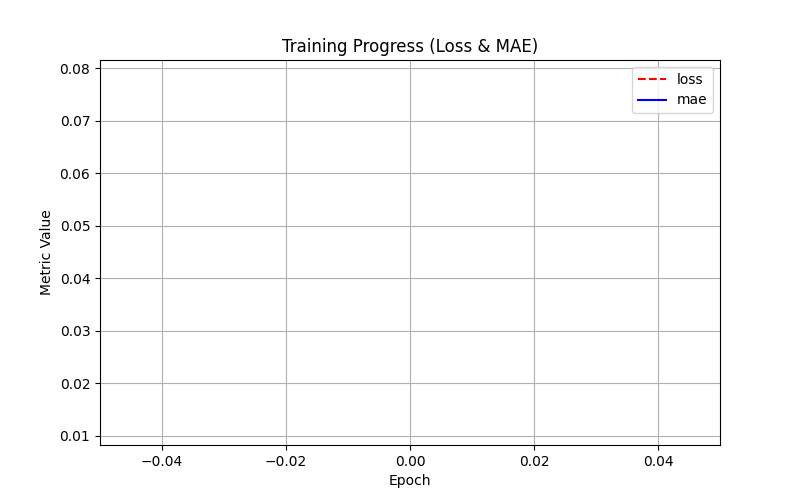
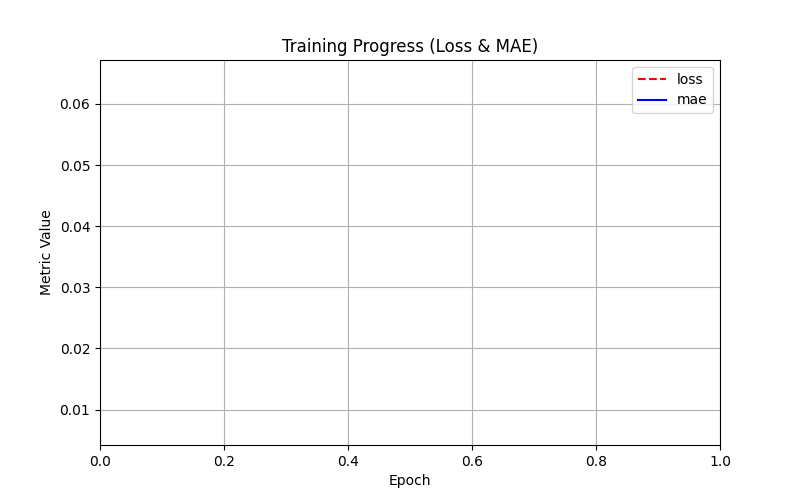
model history

diff --git a/25-Spring/CS4320 Machine Learning/audio-decompress/audio_decompress.py b/25-Spring/CS4320 Machine Learning/audio-decompress/audio_decompress.py
@@ -2,14 +2,13 @@
 
 import os
 os.environ["TF_GPU_ALLOCATOR"] = "cuda_malloc_async"
-os.environ["TF_CPP_MIN_LOG_LEVEL"] = "2" # quiet down some unimportant info
+os.environ["TF_CPP_MIN_LOG_LEVEL"] = "2"  # suppress unimportant info
 
 from open_data import get_streaming_dataset
 from model_creation import create_model
 import tensorflow as tf
 import keras
 import joblib
-
 from model_history import plot_history
 
 
@@ -21,17 +20,27 @@ if gpus:
 print("Num GPUs Available:", len(gpus))
 print("Using GPU:", bool(gpus))
 
+
 class Args:
     model_name = "a"
 
 
-# Load training dataset
-train_ds = get_streaming_dataset("data/train/cut/degraded", "data/train/cut/clean", batch_size=1)
-
-# Limit dataset per run (uncomment to allow chunking)
+# Set how many samples to use per run
 samples_per_run = 20
-run_index = 0
+
+# Load run index (auto-increments each run)
+run_index_path = "run_index.txt"
+if os.path.exists(run_index_path):
+    with open(run_index_path, "r") as f:
+        run_index = int(f.read().strip())
+else:
+    run_index = 0
+
+
+# Load dataset and apply chunking
+train_ds = get_streaming_dataset("data/train/cut/degraded", "data/train/cut/clean", batch_size=1)
 train_ds = train_ds.skip(run_index * samples_per_run).take(samples_per_run)
+
 
 # Inspect a batch to infer input shape
 for X_batch, y_batch in train_ds.take(1):
@@ -70,6 +79,7 @@ checkpoint_cb = keras.callbacks.ModelCheckpoint(
 # Set how many epochs to run this session
 epochs_this_run = 1
 
+
 # Train
 history = model.fit(
     train_ds,
@@ -78,11 +88,19 @@ history = model.fit(
     callbacks=[checkpoint_cb]
 )
 
-# Update progress
+
+# Update epoch progress
 with open(progress_path, "w") as f:
     f.write(str(loaded_epoch + epochs_this_run))
 
-print(f"Model saved and progress updated to epoch {loaded_epoch + epochs_this_run}")
+# Update run index
+with open(run_index_path, "w") as f:
+    f.write(str(run_index + 1))
 
-joblib.dump(history.history, "models/audio_decompressor_latest.history")
-plot_history("models/audio_decompressor_latest")
+# Save training history
+joblib.dump(history.history, f"{model_path.replace('.keras', '')}.history")
+
+# Plot learning curve
+plot_history(model_path.replace(".keras", ""))
+
+print(f"Model saved, epoch {loaded_epoch + epochs_this_run} complete, chunk #{run_index} done.")

diff --git a/25-Spring/CS4320 Machine Learning/audio-decompress/model_history.py b/25-Spring/CS4320 Machine Learning/audio-decompress/model_history.py
@@ -14,7 +14,10 @@ def plot_history(model_file="models/audio_decompressor_latest"):
     epochs = len(history["loss"])
     
     pd.DataFrame(history).plot(
-        figsize=(8, 5), xlim=[0, epochs - 1], grid=True, xlabel="Epoch",
+        figsize=(8, 5),
+        xlim=[0, max(1, epochs - 1)],
+        grid=True,
+        xlabel="Epoch",
         style=["r--", "b-"] * ((len(history.keys()) + 1) // 2)
     )
     plt.title("Training Progress (Loss & MAE)")
